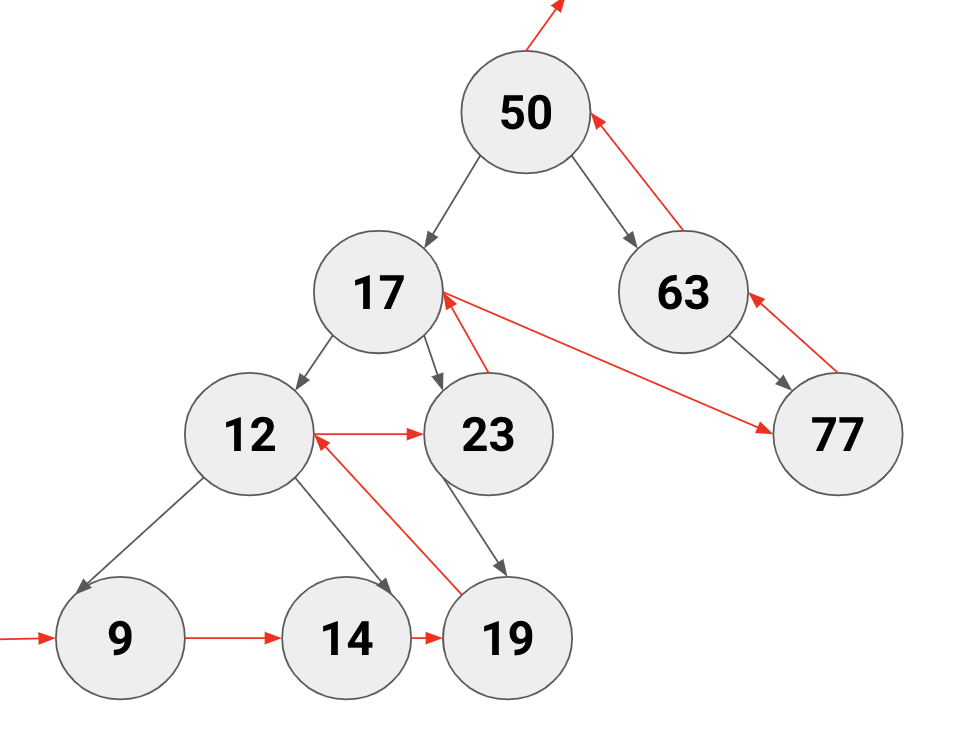
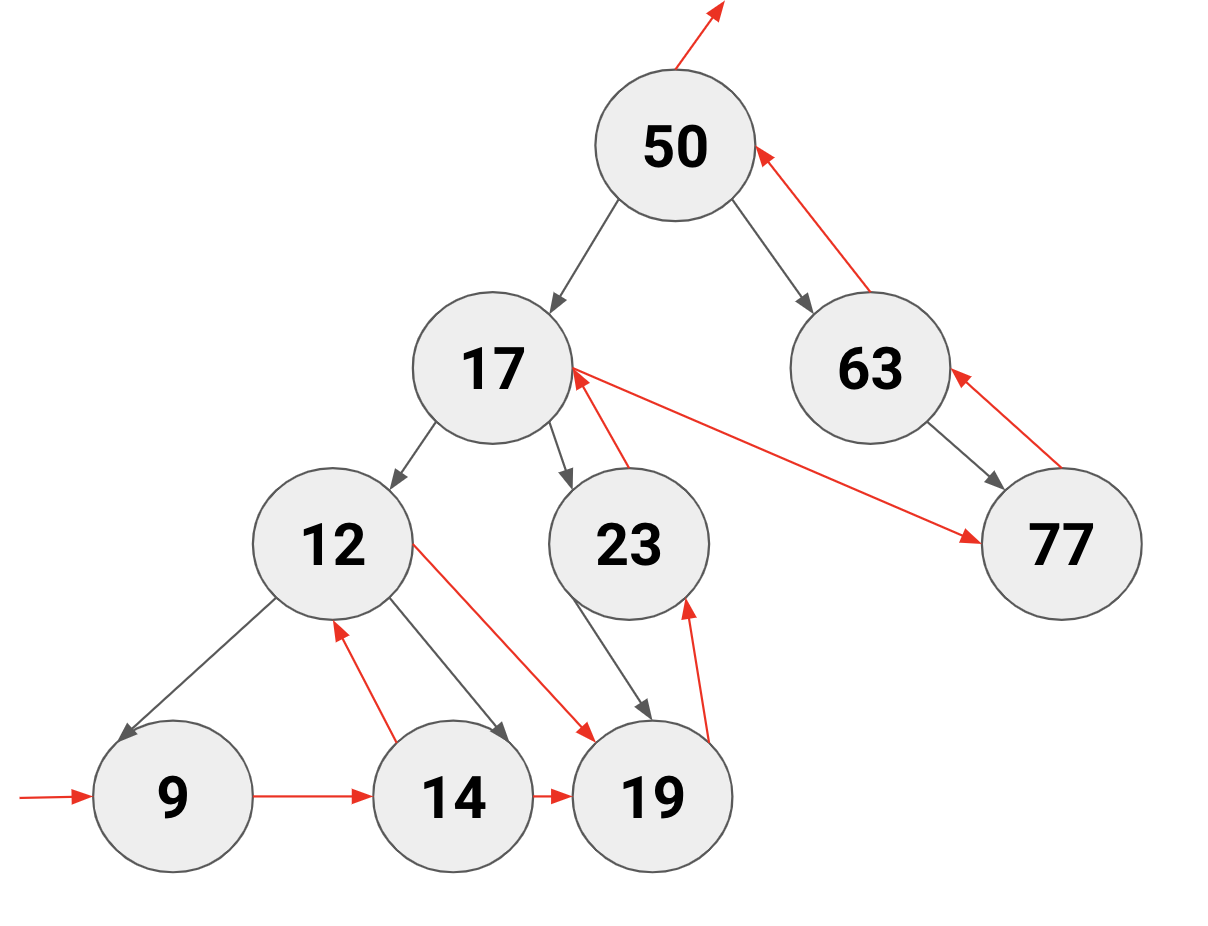
finalize tree

diff --git a/src/ts/datastructures/Tree.ts b/src/ts/datastructures/Tree.ts
@@ -279,20 +279,31 @@ export class BinarySearchTree {
      * @returns {number} minHeight - of the tree
      */
     getMinHeight(node = this.root): number {
-        let minHeight = -1;
-        if (node != null) {
-            let leftBranche = this.getMinHeight(node.left);
-            let rightBranche = this.getMinHeight(node.right);
-            console.log("leftBranche=" + leftBranche);
-            console.log("rightBranche=" + rightBranche);
-            
-            if (leftBranche < rightBranche) {
-                minHeight = leftBranche + 1;
-            } else {
-                minHeight = rightBranche + 1;
-            }
+        if (node == null) {
+            // every time when you reach the leaf node
+            // return -1, so it's a number;
+            return -1;
         }
-        return minHeight;
+
+        // when node is not null, so it's not a leaf
+        // call this function again, passing in the
+        // previous node, that way you are walking
+        // through all the lefts, and all the rights.
+        let leftBranch = this.getMinHeight(node.left);
+        let rightBranch = this.getMinHeight(node.right);
+
+        // when the left branche is smaller
+        // start walking left, otherwise
+        // walk through the right branche
+        // and start counting (+1) till the end (null)
+
+        // the branch that's the smallest
+        // will contain the min height
+        if (leftBranch < rightBranch) {
+            return leftBranch + 1;
+        } else {
+            return rightBranch + 1;
+        }
     }
 
     /**
@@ -301,18 +312,31 @@ export class BinarySearchTree {
      * @returns {number} maxHeight - of the tree
      */
     getMaxHeight(node = this.root): number {
-        let maxHeight = -1;
-        if (node != null) {
-            let leftBranch = this.getMaxHeight(node.left);
-            let rightBranch = this.getMaxHeight(node.right);
-
-            if (leftBranch > rightBranch) {
-                maxHeight = leftBranch + 1;
-            } else {
-                maxHeight = rightBranch + 1;
-            }
+        if (node == null) {
+            // every time when you reach the leaf node
+            // return -1, so it's a number;
+            return -1;
         }
-        return maxHeight;
+
+        // when node is not null, so it's not a leaf
+        // call this function again, passing in the
+        // previous node, that way you are walking
+        // through all the lefts, and all the rights.
+        let leftBranch = this.getMaxHeight(node.left);
+        let rightBranch = this.getMaxHeight(node.right);
+
+        // when the left branche is bigger
+        // start walking left, otherwise
+        // walk through the right branche
+        // and start counting (+1) till the end (null)
+
+        // the branch that's the biggest
+        // will contain the max height
+        if (leftBranch > rightBranch) {
+            return leftBranch + 1;
+        } else {
+            return rightBranch + 1;
+        }
     }
 
     /**
@@ -328,55 +352,184 @@ export class BinarySearchTree {
      * Get the Tree Max Height
      * @param {object} opt
      * @param {string} opt.method - inOrder | preOrder | postOrder | levelOrder (default inOrder); 
+     * @returns {array} - sorted array
      */
-    traverse(opt: any): void {
+    traverse(opt: any): any {
+        let array = new Array();
         let method = "";
         if (opt.method) {
             method = opt.method.toLowerCase();
         }
-        /*switch (method) {
+        console.log(method);
+        switch (method) {
             case "inorder":
-                this.inorder();
+                array = this.inorder();
+                break;
             case "preorder":
-                this.preorder();
+                array = this.preorder();
+                break;
             case "postorder":
-                this.postorder();
+                array = this.postorder();
+                break;
             case "levelorder":
-                this.levelorder();
+                array = this.levelorder();
+                break;
             default:
-                this.inorder();
-        }*/
+                array = this.inorder();
+        }
+
+        return array;
     }
 
     /**
      * Traverses nodes of a tree with DFS
-     * @param {Function} callback
+     * @returns {array} - return an inorder array
      */
-    inorder(callback: Function): void {
+    inorder(): any[] {
+        if (this.root == null) {
+            // check if there's a BST
+            // and if there are values
+            // in it
+            console.log("root = null");
+            return null;
+        } else {
+            let result = new Array();
+            // recursive function
+            function traverseInOrder(node: TreeNode) {
+                // we start from the root node.
 
+                // if the current node has a node.left
+                // then call this function
+                // again but pass in the left node
+                // else ignore
+                // if (node.left) console.log("execute if node " + node.key + " has a left: " + node.left.key);
+                node.left && traverseInOrder(node.left);
+
+                // and then add the value to the array
+                // so for everytime you called the 
+                // function, you still will add values
+                // to the array
+                // console.log("push in array " + node.key);
+                result.push(node.key);
+
+                // next, check if the current node has
+                // a right node. else ignore
+                // in case not, go up
+                // pass that node to the array
+
+                // if node.right does exist call this function
+                // again but pass in the right node
+                // if (node.right) console.log("execute if node " + node.key + " has a right: " + node.right.key);
+                node.right && traverseInOrder(node.right);
+            }
+            traverseInOrder(this.root);
+            return result;
+        }
     }
 
     /**
      * Traverses nodes of a tree with BFS
-     * @param {Function} callback
+     * @returns {array} - return an preorder array
      */
-    preorder(callback: Function): void {
-
+    preorder(): any[] {
+        if (this.root == null) {
+            // check if there's a BST
+            // and if there are values
+            // in it
+            return null;
+        } else {
+            let result = new Array();
+            // recursive function
+            function traversePreOrder(node: TreeNode) {
+                // add the key in the results array
+                result.push(node.key);
+                // if node.left exist call this function
+                // again but pass in the left node
+                node.left && traversePreOrder(node.left);
+                // if node.right exist call this function
+                // again but pass in the right node
+                node.right && traversePreOrder(node.right);
+            }
+            traversePreOrder(this.root);
+            return result;
+        }
     }
 
     /**
      * Traverses nodes of a tree with BFS
-     * @param {Function} callback
+     * @returns {array} - return an postorder array
      */
-    postorder(callback: Function): void {
-
+    postorder(): any[] {
+        if (this.root == null) {
+            // check if there's a BST
+            // and if there are values
+            // in it
+            return null;
+        } else {
+            let result = new Array();
+            // recursive function
+            function traversePostOrder(node: TreeNode) {
+                // if node.left exist call this function
+                // again but pass in the left node
+                node.left && traversePostOrder(node.left);
+                // if node.right exist call this function
+                // again but pass in the right node
+                node.right && traversePostOrder(node.right);
+                // add the key in the results array
+                result.push(node.key);
+            }
+            traversePostOrder(this.root);
+            return result;
+        }
     }
-    
-    /**
-     * Traverses nodes of a tree with BFS
-     * @param {Function} callback
-     */
-    levelorder(callback: Function): void {
 
+    /**
+     * Traverses nodes for each level
+     * @returns {array} - return an level order array
+     */
+    levelorder(): any {
+        let results = [];
+        let queue = [];
+        if (this.root != null) {
+            queue.push(this.root);
+            // now we will loop
+            // as long as there are
+            // items in the queue
+            while (queue.length > 0) {
+                let node = queue.shift();
+                // takes the first element in the
+                // array and remove that element
+                // so we will start with the rootnode
+                // in the queue. and after shifting
+                // it's not in the queue anymore
+
+                // we can put the key in the results array
+                results.push(node.key);
+
+                if (node.left != null) {
+                    // console.log(node.key + " has a left node: " + node.left.key)
+                    // when there is a left node
+                    // we can put it to the queue
+                    // so the while loop won't stop
+                    queue.push(node.left);
+                }
+                if (node.right != null) {
+                    // console.log(node.key + " has a right node: " + node.right.key)
+            
+                    // when there is a right node
+                    // we can put it to the queue
+                    // so the while loop won't stop
+                    queue.push(node.right);
+                }
+
+                // when there are items in the queue,
+                // we can start adding it to the results
+                // array, and start checking for the next
+                // level.
+            }
+            return results;
+        } else {
+            return null;
+        }
     }
 }

diff --git a/src/tests/Tree.spec.ts b/src/tests/Tree.spec.ts
@@ -58,3 +58,38 @@ describe('tree.remove() Remove keys from a BST', () => {
     });
 
 });
+
+
+describe('tree traversal', () => {
+    let t = new BinarySearchTree();
+    t.insert(50);
+    t.insert(17);
+    t.insert(12);
+    t.insert(9);
+    t.insert(14);
+    t.insert(63);
+    t.insert(77);
+    t.insert(23);
+    t.insert(19);
+
+    it('tree.traverse(): inorder', () => {
+        expect(t.traverse({
+            'method': 'inOrder'
+          }).toString()).toBe('9,12,14,17,19,23,50,63,77');
+    });
+    it('tree.traverse(): preorder', () => {
+        expect(t.traverse({
+            'method': 'preOrder'
+          }).toString()).toBe('50,17,12,9,14,23,19,63,77');
+    });
+    it('tree.traverse(): postorder', () => {
+        expect(t.traverse({
+            'method': 'postOrder'
+          }).toString()).toBe('9,14,12,19,23,17,77,63,50');
+    });
+    it('tree.traverse(): levelorder', () => {
+        expect(t.traverse({
+            'method': 'levelOrder'
+          }).toString()).toBe('50,17,63,12,23,77,9,14,19');
+    });
+});

diff --git a/src/examples/trees.html b/src/examples/trees.html
@@ -43,11 +43,10 @@ console.log(t.getRootNodeValue());
 
 // Tree Heights
 console.log(t.getMinHeight()) //1
-//console.log(t.getMaxHeight()) //3
+console.log(t.getMaxHeight()) //3
 console.log(t.isBalanced()) //false (node 63, has no node on the left)
 
 // Tree traversal
-
 console.log(t.traverse({
   'method': 'inOrder'
 })); //9,12,14,17,19,23,50,63,77
@@ -58,7 +57,7 @@ console.log(t.traverse({
 
 console.log(t.traverse({
   'method': 'postOrder'
-})); //9,14,19,12,23,17,77,63,50
+})); //9,14,12,19,23,17,77,63,50
 
 console.log(t.traverse({
   'method': 'levelOrder'
